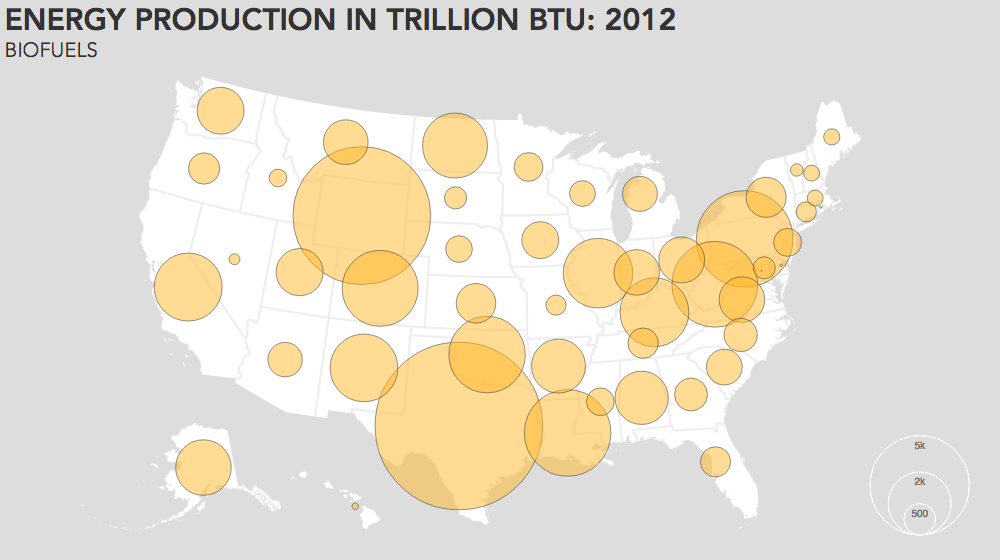
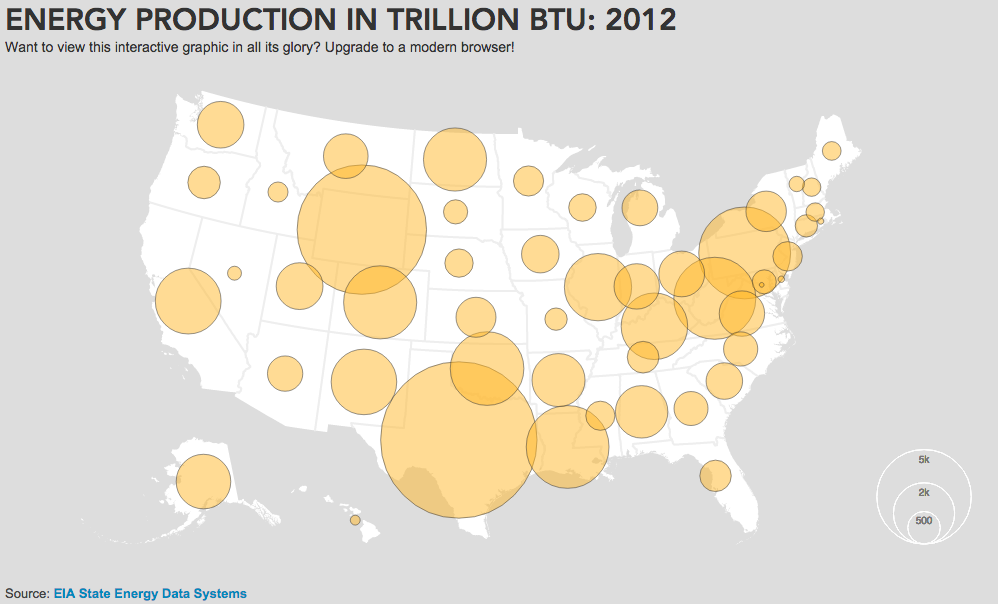
add fallback

diff --git a/_site/article/index.html b/_site/article/index.html
@@ -58,7 +58,27 @@
 
   
 
-        <div id="pre_content">
+        <!--[if lt IE 9]>
+<style type="text/css">
+  #master_container, #pre_content, #attribution {display: none;}  
+  .fallback img {
+    display: block;
+  }
+  .fallback {
+    display: inline;
+  }
+</style>
+<![endif]-->
+
+
+
+<!-- Fallback info -->
+    <div class="fallback">
+      <img src="/img/fallback.png">
+    </div>
+
+
+<div id="pre_content">
 	<h2>Energy Production in Trillion BTU: 2012</h2>
 	<p>Click on each state to learn more</p>
 	<!-- <h3>U.S. Total Net Energy Imported: 15,880 Trillion BTU</h3>

diff --git a/_site/index.html b/_site/index.html
@@ -53,7 +53,27 @@
 
   
 
-        <div id="pre_content">
+        <!--[if lt IE 9]>
+<style type="text/css">
+  #master_container, #pre_content, #attribution {display: none;}  
+  .fallback img {
+    display: block;
+  }
+  .fallback {
+    display: inline;
+  }
+</style>
+<![endif]-->
+
+
+
+<!-- Fallback info -->
+    <div class="fallback">
+      <img src="/img/fallback.png">
+    </div>
+
+
+<div id="pre_content">
 	<h2>Energy Production in Trillion BTU: 2012</h2>
 	<p>Click on each state to learn more</p>
 	<!-- <h3>U.S. Total Net Energy Imported: 15,880 Trillion BTU</h3>

diff --git a/_site/2014/10/01/content/index.html b/_site/2014/10/01/content/index.html
@@ -1,3 +1,23 @@
+<!--[if lt IE 9]>
+<style type="text/css">
+  #master_container, #pre_content, #attribution {display: none;}  
+  .fallback img {
+    display: block;
+  }
+  .fallback {
+    display: inline;
+  }
+</style>
+<![endif]-->
+
+
+
+<!-- Fallback info -->
+    <div class="fallback">
+      <img src="/img/fallback.png">
+    </div>
+
+
 <div id="pre_content">
 	<h2>Energy Production in Trillion BTU: 2012</h2>
 	<p>Click on each state to learn more</p>

diff --git a/_posts/2014-10-01-content.html b/_posts/2014-10-01-content.html
@@ -4,6 +4,25 @@
 layout: post
 
 ---
+<!--[if lt IE 9]>
+<style type="text/css">
+  #master_container, #pre_content, #attribution {display: none;}  
+  .fallback img {
+    display: block;
+  }
+  .fallback {
+    display: inline;
+  }
+</style>
+<![endif]-->
+
+
+
+<!-- Fallback info -->
+    <div class="fallback">
+      <img src="/img/fallback.png">
+    </div>
+
 
 <div id="pre_content">
 	<h2>Energy Production in Trillion BTU: 2012</h2>

diff --git a/_site/css/style.css b/_site/css/style.css
@@ -1,3 +1,14 @@
+
+
+#sidebar-right{display:none !important;}.sidebar-second #main-content{width:100% !important;}
+
+
+/*fallback*/
+.fallback {
+    display: none;
+  }
+.fallinner {height: 40px !important;}
+
 /*Before and after*/
 #pre_content {
   background-color: #ddd;
@@ -29,7 +40,9 @@
 }
 
 #attribution {
-  position: relative;
+  position: absolute;
+  bottom:-25px;
+  padding-left: 5px;
 }
 
 

diff --git a/css/style.css b/css/style.css
@@ -1,3 +1,14 @@
+
+
+#sidebar-right{display:none !important;}.sidebar-second #main-content{width:100% !important;}
+
+
+/*fallback*/
+.fallback {
+    display: none;
+  }
+.fallinner {height: 40px !important;}
+
 /*Before and after*/
 #pre_content {
   background-color: #ddd;
@@ -29,7 +40,9 @@
 }
 
 #attribution {
-  position: relative;
+  position: absolute;
+  bottom:-25px;
+  padding-left: 5px;
 }
 
 
